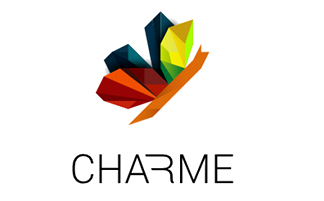
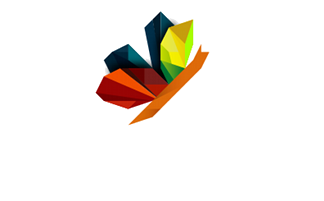
client update

Changed region(s): [[0.216, 0.7463, 0.7407, 0.9254]]

diff --git a/client/v1/templates/signup.html b/client/v1/templates/signup.html
@@ -10,8 +10,8 @@ and make sure it matches with server Validation
 
 <div style='background-color:#fff; padding:32px'>
 
-	<div class='infobox' style='margin: 0; margin-top:0px; margin-bottom:32px'>
-		WARNING: This is Charme Beta. Do not provide any personal or private data. This is for testing purposes only!
+	<div class='infobox' style='margin: 0; margin-top:0px; margin-bottom:32px; color: red;'>
+		WARNING: This is a preview version. Do not provide any personal or private data. This is for testing purposes only!
 	</div>
 	<div id="prompt_server">
 		<div style="margin-bottom:16px; ">
@@ -140,7 +140,7 @@ and make sure it matches with server Validation
 			<div id='error9'>Name must have between 2 and 30 characters and should not contain special characters</div>
 
 			<div id='error10'>Please accept the terms.</div>
-			<div id='error11'>Outdated Charme Client Version. Please update your client software.</div>
+			<div id='error11'>Outdated Client Version. Please update your client software.</div>
 			<div id='error12'>Password do not match</div>
 			<div id='error13'>Public key does not exist. (This error should not happen)</div>
 

diff --git a/client/v1/templates/about.html b/client/v1/templates/about.html
@@ -9,7 +9,7 @@
 
 <!-- THE FOLLOWING COPYRIGHT NOTICE SHALL NOT BE REMOVED (See license.txt for more information)-->
 	<div class="p32 respColumn" style='float:right; width:240px;  ' >
-	<h3 style='margin-top:0'>About Charme</h3>
+	<h3 style='margin-top:0'>About</h3>
 
 	Developed by <a href="http://www.mschultheiss.com">Manuel Schultheiß</a>. <a href="http://mschultheiss.com/?page_id=9">Imprint</a>
 	<br><br>&bull;  <a href="http://mschultheiss.github.io/Charme">More information</a><br>&bull; <a href='https://github.om/mschultheiss/Charme/blob/master/doc/libraries.md'>Used libraries</a>

diff --git a/client/v1/templates/help.html b/client/v1/templates/help.html
@@ -25,7 +25,7 @@ you can subscribe to his company collection only.
 You have to subscribe to  collections manually. Adding people to lists does not mean subscribing to their collections!
 
 <h1>How do I add a friend?</h1>
-Get the Charme ID (e.g. someone@someserver.com) and enter it into the "Find..." box.
+Get the user ID (e.g. someone@someserver.com) and enter it into the "Find..." box.
 
 <h1>Why cant i send a message to a user</h1>
 Make sure you have added the public key to your key directory first.
